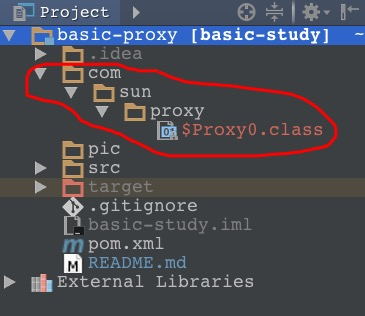
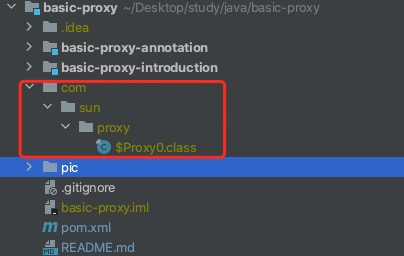
调整项目结构

diff --git a/basic-proxy-annotation/src/main/java/com/study/proxy/annotation/Decent.java b/basic-proxy-annotation/src/main/java/com/study/proxy/annotation/Decent.java
@@ -1,0 +1,24 @@
+package com.study.proxy.annotation;
+
+import java.lang.annotation.Retention;
+import java.lang.annotation.RetentionPolicy;
+
+/**
+ * 用于描述名门正派的相关信息的注解
+ */
+@Retention(RetentionPolicy.RUNTIME)
+public @interface Decent {
+    /**
+     * 是个名门正派吗?
+     *
+     * @return 是则返回 true, 否则返回 false (默认值是 true)
+     */
+    boolean yes() default true;
+
+    /**
+     * 活跃地区
+     *
+     * @return 活跃地区(默认值是 中华)
+     */
+    String region() default "中华";
+}

diff --git a/basic-proxy-annotation/src/main/java/com/study/proxy/BasicAnnotation.java b/basic-proxy-annotation/src/main/java/com/study/proxy/BasicAnnotation.java
@@ -1,0 +1,12 @@
+package com.study.proxy;
+
+import com.study.proxy.annotation.Decent;
+import com.study.proxy.sect.Emei;
+
+public class BasicAnnotation {
+
+    public static void main(String[] args) {
+        Decent decent = Emei.class.getAnnotation(Decent.class);
+        System.out.println(decent.region());
+    }
+}

diff --git a/basic-proxy-annotation/src/main/java/com/study/proxy/sect/Emei.java b/basic-proxy-annotation/src/main/java/com/study/proxy/sect/Emei.java
@@ -1,0 +1,7 @@
+package com.study.proxy.sect;
+
+import com.study.proxy.annotation.Decent;
+
+@Decent(region = "四川")
+public class Emei {
+}

diff --git a/basic-proxy-annotation/src/main/java/com/study/proxy/sect/Ming.java b/basic-proxy-annotation/src/main/java/com/study/proxy/sect/Ming.java
@@ -1,0 +1,7 @@
+package com.study.proxy.sect;
+
+import com.study.proxy.annotation.Decent;
+
+@Decent(yes = false)
+public class Ming{
+}

diff --git a/basic-proxy-annotation/src/main/java/com/study/proxy/sect/Kongtong.java b/basic-proxy-annotation/src/main/java/com/study/proxy/sect/Kongtong.java
@@ -1,0 +1,7 @@
+package com.study.proxy.sect;
+
+import com.study.proxy.annotation.Decent;
+
+@Decent
+public class Kongtong{
+}

diff --git a/README.md b/README.md
@@ -37,13 +37,13 @@
 
 ## 用到的代码
 我们可以建立 [一个小项目](https://github.com/fanofxiaofeng/basic-proxy) 来粗略地模拟上述例子。
-包的名称为 `com.study.proxy`。
+该项目中的 [basic-proxy-introduction](https://github.com/fanofxiaofeng/basic-proxy/basic-proxy-introduction) 模块与本文有关。
 
-![image.png](pic/project.png)
+![module1.png](pic/module1.png)
 
 红框中的5个文件内容如下
 
-### [`pom.xml`](pom.xml)
+### [`pom.xml`](basic-proxy-introduction/pom.xml)
 ```xml
 <?xml version="1.0" encoding="UTF-8"?>
 <project xmlns="http://maven.apache.org/POM/4.0.0"
@@ -52,15 +52,15 @@
     <modelVersion>4.0.0</modelVersion>
 
     <groupId>com.study</groupId>
-    <artifactId>basic-study</artifactId>
+    <artifactId>basic-proxy-introduction</artifactId>
     <version>1.0-SNAPSHOT</version>
     <packaging>jar</packaging>
 
-    <properties>
-        <project.build.sourceEncoding>UTF-8</project.build.sourceEncoding>
-        <project.reporting.outputEncoding>UTF-8</project.reporting.outputEncoding>
-        <java.version>1.8</java.version>
-    </properties>
+    <parent>
+        <groupId>com.study</groupId>
+        <artifactId>basic-proxy</artifactId>
+        <version>1.0-SNAPSHOT</version>
+    </parent>
 
     <dependencies>
         <dependency>
@@ -73,7 +73,7 @@
 
     <build>
         <!-- 可以参考 https://maven.apache.org/shared/maven-archiver/examples/classpath.html -->
-        <finalName>basic-study</finalName>
+        <finalName>basic-study-introduction</finalName>
         <plugins>
             <plugin>
                 <groupId>org.apache.maven.plugins</groupId>
@@ -93,7 +93,7 @@
 </project>
 ```
 
-### [`Clean.java`](src/main/java/com/study/proxy/Clean.java)
+### [`Clean.java`](basic-proxy-introduction/src/main/java/com/study/proxy/Clean.java)
 其中定义了 `Clean` 接口
 
 ```java
@@ -107,7 +107,7 @@ public interface Clean {
 }
 ```
 
-### [`KingRobot.java`](src/main/java/com/study/proxy/KingRobot.java)
+### [`KingRobot.java`](basic-proxy-introduction/src/main/java/com/study/proxy/KingRobot.java)
 **打扫王** 实现了 `Clean` 接口
 
 ```java
@@ -127,7 +127,7 @@ public class KingRobot implements Clean {
 }
 ```
 
-### [`DoraemonHandler.java`](src/main/java/com/study/proxy/DoraemonHandler.java)
+### [`DoraemonHandler.java`](basic-proxy-introduction/src/main/java/com/study/proxy/DoraemonHandler.java)
 **哆啦A梦** 充当处理器(handler)
 ```java
 package com.study.proxy;
@@ -163,7 +163,7 @@ public class DoraemonHandler implements InvocationHandler {
 ```
 
 
-### [`BasicProxy.java`](src/main/java/com/study/proxy/BasicProxy.java) (下方展示的内容与最终版本有些差异)
+### [`BasicProxy.java`](basic-proxy-introduction/src/main/java/com/study/proxy/BasicProxy.java) (下方展示的内容与最终版本有些差异)
 ```java
 package com.study.proxy;
 
@@ -222,10 +222,13 @@ proxy.work();
 ### 运行结果
 运行 `BasicProxy` 中的 `main()` 方法，效果如下图
 ![image.png](pic/result1.png)
+
 如果希望直接通过命令行运行的话，可以在项目顶层目录执行如下命令
+
 ```bash
 mvn clean package
-java -jar target/basic-study.jar
+cd basic-proxy-introduction/
+java -jar target/basic-study-introduction.jar
 ```
 
 
@@ -306,7 +309,8 @@ public class BasicProxy {
 ```
 
 现在可以成功保存 `com.sun.proxy.$Proxy0` 这个类对应的 `class` 文件了
-效果如![下图](pic/class.png)
+效果如
+![class 文件](pic/class.png)
 
 
 

diff --git a/basic-proxy-annotation/README.md b/basic-proxy-annotation/README.md
@@ -1,0 +1,80 @@
+# 动态代理在注解(`Annotation`)中的应用
+
+## 参考文章
+1. [(掘金) JAVA 注解的基本原理](https://juejin.cn/post/6844903636733001741)
+
+## 正文
+[前文](../README.md) 讨论了动态代理的一个小例子。
+其实动态代理的应用场景还是有很多的，例如注解中的一些功能就是借助动态代理实现的。
+
+本文会简单讨论动态代理在注解中的使用。
+
+### java.lang.annotation.Annotation
+在 `java.lang.annotation.Annotation` 类的 `javadoc` 中可以看到这样的描述
+> The common interface extended by all annotation types.  Note that an
+> interface that manually extends this one does <i>not</i> define
+> an annotation type.  Also note that this interface does not itself
+> define an annotation type.
+
+![Annotation 类的一部分 javadoc](../pic/annotation_javadoc.png)
+
+大致就是说所有的注解都是 `Annotation` 的子类，
+但是如果直接手写一个 `Annotation` 的子类，
+那么这样的类并不会被当作注解。
+
+### 动手写注解
+参考 [倚天屠龙记](https://zh.wikipedia.org/zh/%E5%80%9A%E5%A4%A9%E5%B1%A0%E9%BE%99%E8%AE%B0) 中的设定，
+江湖上有些门派以名门正派自居，而明教则常被这些名门正派视为异类。
+我们可以把 *名门正派* 看成一种标签，可以用注解模拟这种打标签的逻辑。
+我们就定一个一个名为 `@Decent` 的注解来描述这种标签吧。
+其完整代码在 [Decent.java](src/main/java/com/study/proxy/annotation/Decent.java) 中。
+这个类的主要代码如下
+```java
+/**
+ * 用于描述名门正派的相关信息的注解
+ */
+@Retention(RetentionPolicy.RUNTIME)
+public @interface Decent {
+    /**
+     * 是个名门正派吗?
+     *
+     * @return 是则返回 true, 否则返回 false (默认值是 true)
+     */
+    boolean yes() default true;
+
+    /**
+     * 活跃地区
+     *
+     * @return 活跃地区(默认值是 中华)
+     */
+    String region() default "中华";
+}
+```
+
+我们定义三个类，给它们都加上 `@Decent` 注解
+1. 峨眉派: [Emei.java](src/main/java/com/study/proxy/sect/Emei.java)
+2. 崆峒派: [Kongtong.java](src/main/java/com/study/proxy/sect/Kongtong.java)
+3. 明教: [Ming.java](src/main/java/com/study/proxy/sect/Ming.java)
+
+以 `Emei.java` 为例，其主要代码如下
+```java
+@Decent(region = "四川")
+public class Emei {
+}
+```
+
+我们再写一个简单的 `BasicAnnotation` 类，其主要代码如下(`BasicAnnotation.java` 的完整代码在 [BasicAnnotation.java](src/main/java/com/study/proxy/BasicAnnotation.java) 中)
+```java
+public class BasicAnnotation {
+
+    public static void main(String[] args) {
+        Decent decent = Emei.class.getAnnotation(Decent.class);
+        System.out.println(decent.region());
+    }
+}
+```
+
+不出意外的话，`BasicAnnotation` 类中的 `main` 方法运行完之后，会有 "四川" 展示出来
+![运行结果](../pic/emei_result.png)
+ 
+
